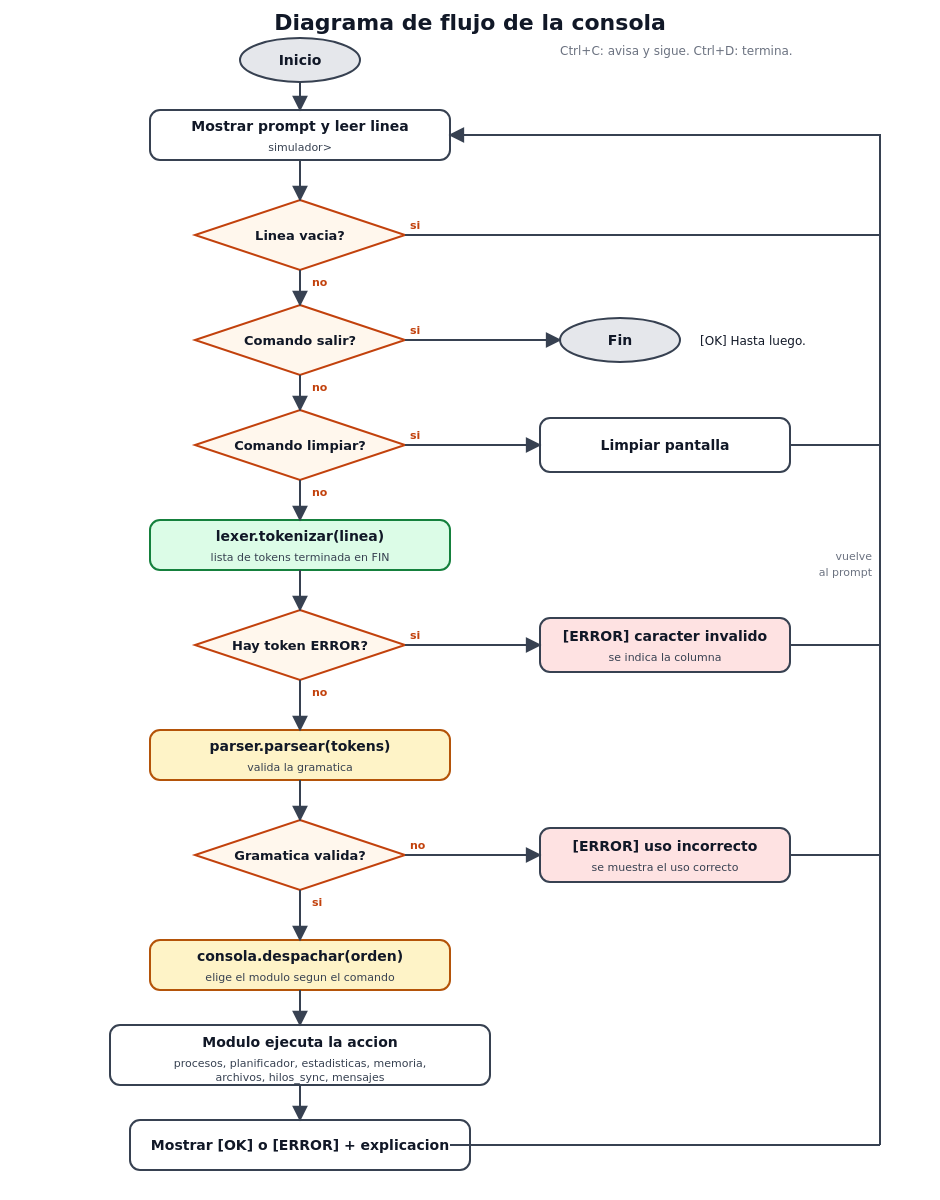
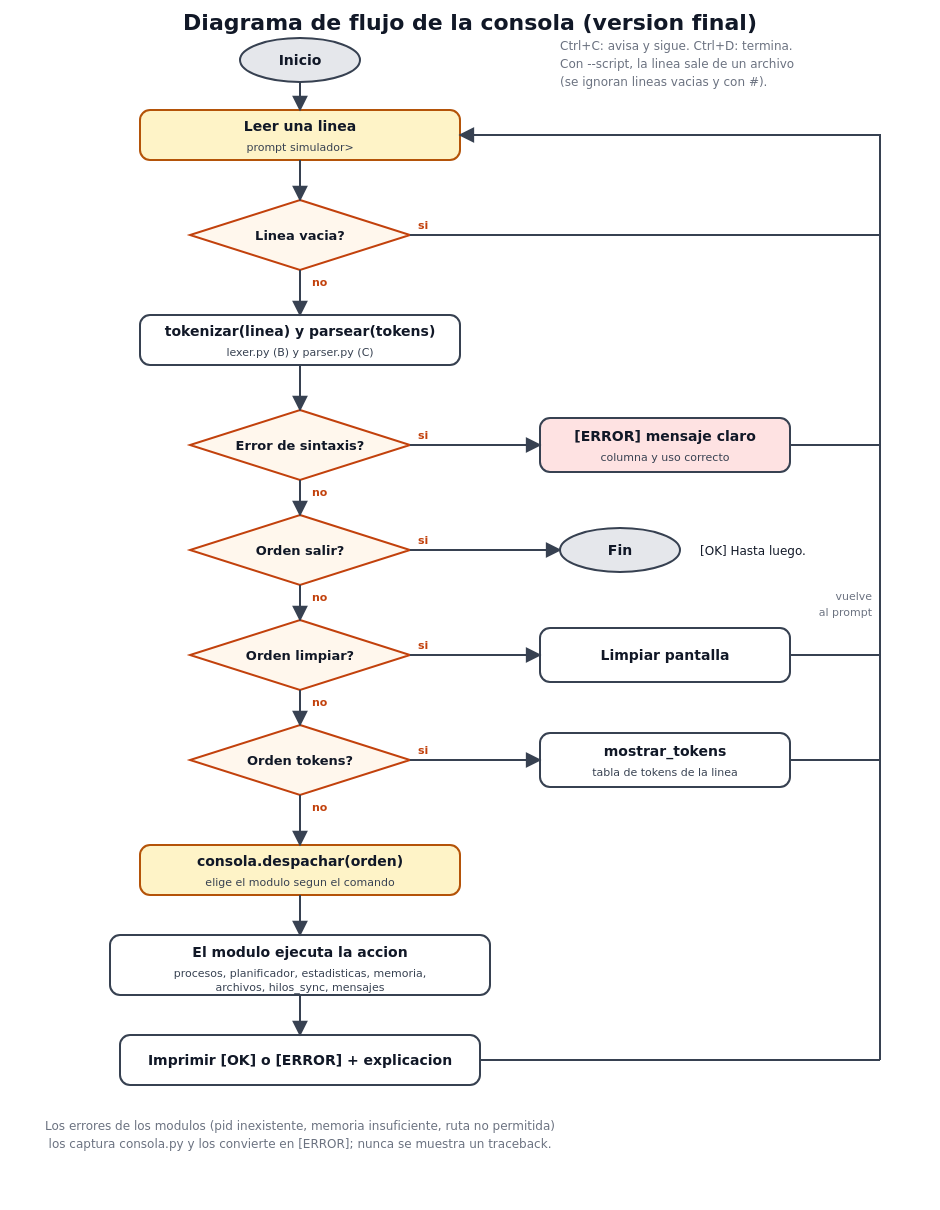
T6.2: actualiza diagramas modular y de flujo con lo implementado
Dependencias verificadas contra los imports reales, flujo de main.py
con modo --script y documento con los cambios respecto a T1.4.

diff --git a/docs/diagrama_modular.md b/docs/diagrama_modular.md
@@ -1,167 +1,79 @@
-# Diagrama modular y de flujo
+# Diagrama modular y de flujo (versión final)
 
-- **Tarea:** T1.4
-- **Fase:** 1. Diseno
+- **Tareas:** T1.4 (diseño) y T6.2 (actualización con lo implementado)
 - **Responsable:** D
-- **Depende de:** T1.1 (B), T1.3 (todos)
-- **Estado:** v1 (diseno). En T6.2 se actualiza con lo realmente implementado.
-
-Los nombres de modulos y funciones salen de `docs/firmas_modulos.md`.
+- **Versión documentada:** `main`, commit `839b770`
+- Las dependencias de este documento se verificaron contra los `import` del código.
 
 ## 1. Diagrama modular
 
 ![Diagrama modular](diagramas/modular.png)
 
-Version vectorial: `diagramas/modular.svg`. El bloque Mermaid de abajo es el mismo diagrama en codigo, util para editarlo.
+Versión vectorial: `diagramas/modular.svg`.
 
-Cada caja es un archivo `.py`. Las flechas indican "usa a".
+`main.py` coordina el flujo: lee la línea, llama al lexer y al parser, y entrega la orden
+a `consola.py`, que ejecuta el módulo correspondiente y devuelve el texto de salida.
 
-```mermaid
-flowchart TD
-    U([Usuario]) --> MAIN
+### Dependencias reales entre módulos
 
-    subgraph ENTRADA [Capa de entrada]
-        MAIN["main.py<br/>bucle de lectura, salir, limpiar,<br/>modo --script"]
-        TOK["tokens.py<br/>tabla de terminales"]
-        LEX["lexer.py<br/>tokenizar()"]
-        PAR["parser.py<br/>parsear() -> Orden"]
-    end
+| Módulo | Importa a |
+|---|---|
+| `main.py` | `lexer`, `parser`, `consola` |
+| `consola.py` | `procesos`, `planificador`, `estadisticas`, `memoria`, `archivos`, `hilos_sync`, `mensajes`, `lexer`, `parser`, `tokens` |
+| `parser.py` | `lexer` |
+| `lexer.py` | `tokens` |
+| `procesos.py` | `memoria`, `tokens` |
+| `planificador.py` | `procesos` |
+| `estadisticas.py` | `planificador` |
+| `archivos.py` | `tokens` |
+| `tokens.py`, `memoria.py`, `hilos_sync.py`, `mensajes.py` | (ninguno del proyecto) |
 
-    subgraph CONTROL [Capa de control]
-        CON["consola.py<br/>despachar(), ayuda()"]
-    end
+## 2. Descripción de cada módulo
 
-    subgraph NUCLEO [Nucleo del simulador]
-        PRO["procesos.py<br/>Proceso, crear, listar,<br/>consultar, finalizar"]
-        PLA["planificador.py<br/>fcfs, sjf, rr"]
-        EST["estadisticas.py<br/>retorno, espera, promedios"]
-        MEM["memoria.py<br/>reservar, liberar<br/>(1024 MB)"]
-    end
-
-    subgraph RECURSOS [Recursos y comunicacion]
-        ARC["archivos.py<br/>solo dentro de carpeta_pruebas/"]
-        HIL["hilos_sync.py<br/>sin_lock, con_lock, semaforo"]
-        MSG["mensajes.py<br/>cola FIFO"]
-    end
-
-    MAIN --> LEX
-    LEX --> TOK
-    MAIN --> PAR
-    PAR --> LEX
-    MAIN --> CON
-    CON --> TOK
-    CON --> PRO
-    CON --> PLA
-    CON --> EST
-    CON --> MEM
-    CON --> ARC
-    CON --> HIL
-    CON --> MSG
-    PRO --> MEM
-    PLA --> PRO
-    EST --> PLA
-```
-
-Version en texto, por si Mermaid no se renderiza:
-
-```text
-                         Usuario
-                            |
-                         main.py  ------------------ (modo --script)
-                            |
-              +-------------+-------------+
-              |                           |
-          lexer.py  <--- tokens.py     parser.py
-              |__________________________|
-                            |  Orden
-                        consola.py  (despachar / ayuda)
-                            |
-   +--------+--------+------+------+---------+---------+
-   |        |        |      |      |         |         |
-procesos  planif.  estad.  memoria archivos hilos_sync mensajes
-   |  \       |       |
-   |   \      v       v
-   |    +-> procesos  planificador
-   v
-memoria
-```
-
-## 2. Descripcion de cada modulo
-
-| Modulo | Responsable | Funcion principal | Entra | Sale |
+| Módulo | Responsable | Función principal | Entra | Sale |
 |---|---|---|---|---|
-| `main.py` | C | Bucle de lectura; atiende `salir`, `limpiar` y `--script`. | Texto del usuario. | Texto en pantalla. |
-| `tokens.py` | B | Tabla de palabras reservadas y terminales. | - | Definiciones. |
-| `lexer.py` | B | Convierte una linea en tokens. | `str` | `list[Token]` terminada en `FIN`. |
-| `parser.py` | C | Valida la gramatica y arma la orden. | `list[Token]` | `Orden` o `ValueError`. |
-| `consola.py` | C | Despachador: elige el modulo segun la orden. | `Orden` | `str` con `[OK]` o `[ERROR]`. |
-| `procesos.py` | A | Registro y ciclo de vida de procesos. | Datos del proceso. | `Proceso`. |
+| `main.py` | C | Bucle de lectura; atiende `salir`, `limpiar`, `tokens` y el modo `--script`. | Texto del usuario o archivo. | Texto en pantalla. |
+| `tokens.py` | B | Tabla de palabras reservadas y terminales. | — | Definiciones. |
+| `lexer.py` | B | Convierte una línea en tokens, con línea y columna. | `str` | `list[Token]` terminada en `FIN`. |
+| `parser.py` | C | Valida la gramática y arma la orden. | `list[Token]` | `Orden` o `ErrorSintaxis`. |
+| `consola.py` | C | Despachador: elige el módulo según el comando y da formato a la salida. | `Orden` | `str` con `[OK]` o `[ERROR]`. |
+| `procesos.py` | A | Registro y ciclo de vida de procesos; reserva memoria al crear. | Datos del proceso. | `Proceso`. |
 | `planificador.py` | A | FCFS, SJF no expulsivo y Round Robin. | `list[Proceso]` | `ResultadoPlanificacion` (Gantt y tiempos). |
-| `estadisticas.py` | A | Finalizacion, retorno, espera y promedios. | `ResultadoPlanificacion` | Tabla de texto. |
-| `memoria.py` | B | Reserva y liberacion con tope de 1024 MB. | `pid`, MB. | `bool`, MB liberados, estado. |
+| `estadisticas.py` | A | Finalización, retorno, espera y promedios. | `ResultadoPlanificacion` | Tabla de texto. |
+| `memoria.py` | B | Reserva y liberación con tope de 1024 MB. | `pid`, MB. | `bool`, MB liberados, estado. |
 | `archivos.py` | B | CRUD de archivos confinado a `carpeta_pruebas/`. | Nombre y contenido. | `ArchivoInfo`, texto. |
-| `hilos_sync.py` | D | Demostracion de condicion de carrera, Lock y Semaphore. | Modo, hilos, iteraciones. | `ResultadoConcurrencia`. |
+| `hilos_sync.py` | D | Demostración de condición de carrera, Lock y Semaphore. | Modo, hilos, iteraciones. | `ResultadoConcurrencia`. |
 | `mensajes.py` | C | Cola FIFO de mensajes. | Texto. | Mensaje o `None`. |
 
 ## 3. Diagrama de flujo de la consola
 
 ![Diagrama de flujo de la consola](diagramas/flujo_consola.png)
 
-Version vectorial: `diagramas/flujo_consola.svg`. El bloque Mermaid de abajo es el mismo flujo en codigo.
-
-```mermaid
-flowchart TD
-    A([Inicio]) --> B[Mostrar prompt simulador>]
-    B --> C{Entrada}
-    C -- "Ctrl+C" --> C1[Avisar: usa salir] --> B
-    C -- "Ctrl+D / fin" --> Z([Fin])
-    C -- linea --> D{Linea vacia?}
-    D -- si --> B
-    D -- no --> E{salir?}
-    E -- si --> E1["[OK] Hasta luego"] --> Z
-    E -- no --> F{limpiar?}
-    F -- si --> F1[Limpiar pantalla] --> B
-    F -- no --> G["lexer.tokenizar(linea)"]
-    G --> H{Hay token ERROR?}
-    H -- si --> H1["[ERROR] caracter o cadena invalida<br/>con la columna"] --> B
-    H -- no --> I["parser.parsear(tokens)"]
-    I --> J{Gramatica valida?}
-    J -- no --> J1["[ERROR] mostrar uso correcto"] --> B
-    J -- si --> K["consola.despachar(orden)"]
-    K --> L{Comando}
-    L -- "crear / listar / consultar / finalizar" --> M1[procesos.py]
-    L -- "planificar / estadisticas" --> M2[planificador.py y estadisticas.py]
-    L -- memoria --> M3[memoria.py]
-    L -- archivo --> M4[archivos.py]
-    L -- "concurrencia" --> M5[hilos_sync.py]
-    L -- mensaje --> M6[mensajes.py]
-    L -- "ayuda / tokens / ejemplo" --> M7[ayuda, tabla de tokens, cargar_ejemplo]
-    M1 --> N
-    M2 --> N
-    M3 --> N
-    M4 --> N
-    M5 --> N
-    M6 --> N
-    M7 --> N
-    N["Salida: [OK] o [ERROR] + explicacion"] --> B
-```
+Versión vectorial: `diagramas/flujo_consola.svg`.
 
 Reglas del flujo:
 
-- Un error en cualquier etapa vuelve al prompt; el programa nunca se cae ni muestra un traceback.
-- Los modulos del nucleo lanzan `ValueError` en validaciones; `consola.py` los captura y los convierte en `[ERROR] ...`.
-- En modo `--script`, el mismo flujo se repite por cada linea del archivo, sin leer del teclado.
+- Una línea vacía se ignora y vuelve al prompt.
+- Primero se tokeniza y se parsea. Un error léxico (carácter no reconocido) o de gramática
+  muestra `[ERROR]` con la columna y el uso correcto, y vuelve al prompt.
+- `salir` termina el programa, `limpiar` limpia la pantalla y `tokens` muestra la tabla de
+  tokens de la línea. Estas tres órdenes las atiende `main.py`.
+- Cualquier otra orden pasa a `consola.despachar()`, que llama al módulo correspondiente.
+- Los errores de los módulos (pid inexistente, memoria insuficiente, ruta no permitida) los
+  captura `consola.py` y los convierte en `[ERROR]`. Nunca se muestra un traceback.
+- En modo `--script`, el mismo flujo se repite por cada línea del archivo; se ignoran las
+  líneas vacías y las que empiezan con `#`.
 
 ## 4. Flujos de datos relevantes
 
-**Crear un proceso con memoria (T4.2)**
+**Crear un proceso con memoria**
 
 ```text
-crear proceso P1 ... mem=200
+crear proceso P1 cpu=8 mem=200
   -> procesos.crear_proceso()
        -> memoria.reservar(pid, 200)
-            si True : estado LISTO       -> [OK] Proceso 1 creado.
-            si False: estado RECHAZADO   -> [ERROR] Memoria insuficiente.
+            True : estado LISTO       -> [OK] Proceso 1 creado en estado LISTO.
+            False: estado RECHAZADO   -> el proceso queda registrado como RECHAZADO
 finalizar proceso 1
   -> procesos.finalizar_proceso() -> memoria.liberar(pid)
 ```
@@ -170,10 +82,10 @@ finalizar proceso 1
 
 ```text
 planificar rr quantum=3
-  -> procesos.listar_procesos()
-  -> planificador.planificar(procesos, "RR", 3)   # Gantt + tiempos
-  -> estadisticas.calcular_estadisticas()
-  -> estadisticas.formatear_estadisticas()         # tabla en consola
+  -> procesos.listar_procesos()          # solo los que están LISTO
+  -> planificador.planificar(procesos, "RR", 3)   # Gantt y tiempos
+estadisticas
+  -> estadisticas.calcular_estadisticas() y formatear_estadisticas()
 ```
 
 **Concurrencia**
@@ -181,11 +93,15 @@ planificar rr quantum=3
 ```text
 concurrencia con_lock
   -> hilos_sync.ejecutar_concurrencia("con_lock")
-  -> hilos_sync.formatear_resultado()   # esperado vs obtenido
+  -> hilos_sync.formatear_resultado()    # esperado vs obtenido, [OK] o [ERROR]
 ```
 
-## 5. Pendientes para T6.2
+## 5. Cambios respecto al diseño inicial (T1.4)
 
-- Confirmar el nombre final del comando de concurrencia (`concurrencia` o `hilos`); ver `docs/terminales_sintaxis.md`.
-- Anotar si C agrego dependencias que no estan en este diagrama.
-- Revisar que `main.py` ya use `parser` y `consola` en lugar de solo imprimir tokens.
+- `main.py` ya integra el parser y el despachador; antes solo imprimía tokens.
+- La dependencia `procesos` → `memoria` ya está implementada (reserva al crear, liberación al
+  finalizar).
+- `tokens.py` también lo usan `consola.py` (ayuda), `procesos.py` y `archivos.py`, para
+  rechazar nombres que coinciden con palabras reservadas.
+- `consola.py` quedó como único punto de entrada a los módulos del núcleo y de los recursos.
+- El comando de concurrencia quedó como `concurrencia sin_lock|con_lock|semaforo`.
